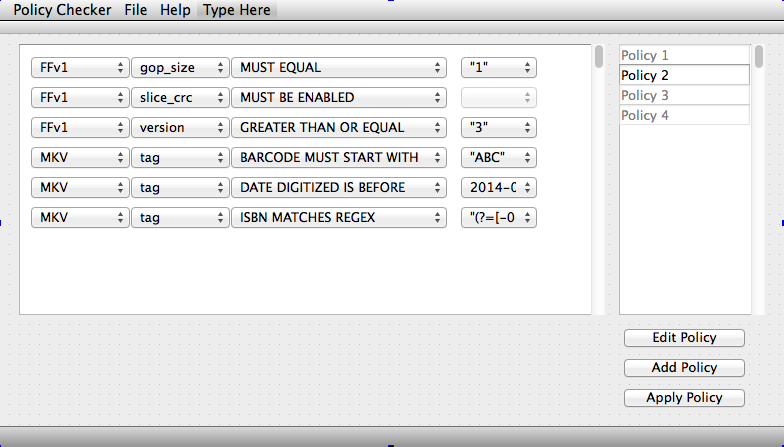
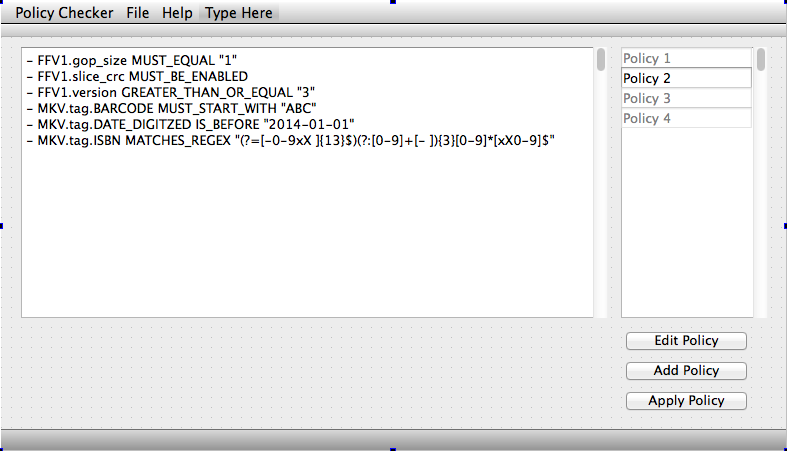
adds policy checker mockups

diff --git a/FuncReqPolicyChecker.md b/FuncReqPolicyChecker.md
@@ -32,9 +32,13 @@ The policy designer interface enables users to create, edit, and share sets of p
 
 The policy designer interface will inform the user with a general indicator as to how time-consuming the test if. For instance to test that all selected Matroska files are version 3 or higher may be done with a quick header parse, but to test that all FFV1 frames have valid embedded CRCs would take a lot more time. Although policy sets may provide an indicator as to the amount of time required (i.e. which sets are quick and which are intensive). This information may be used to set up task scheduling efficiently.
 
+![policy designer interface](./Design/GUI/PolicyDesignerMockup.png)
+
 #### File Selection Interface
 
 The file selection interface shall allow the operator to load files through such methods as drag-and-drop, selection through system dialogs, or file system queries. Such sets of files or queries to identify files may then be saved, name, and described. Thus an operator may define a particular directory as an entry point for acquisitions, a queue for quality control assessment, or archival storage.
+
+![policy selection interface](./Design/GUI/PolicySelectionMockup.png)
 
 #### Policy Test Interface
 
